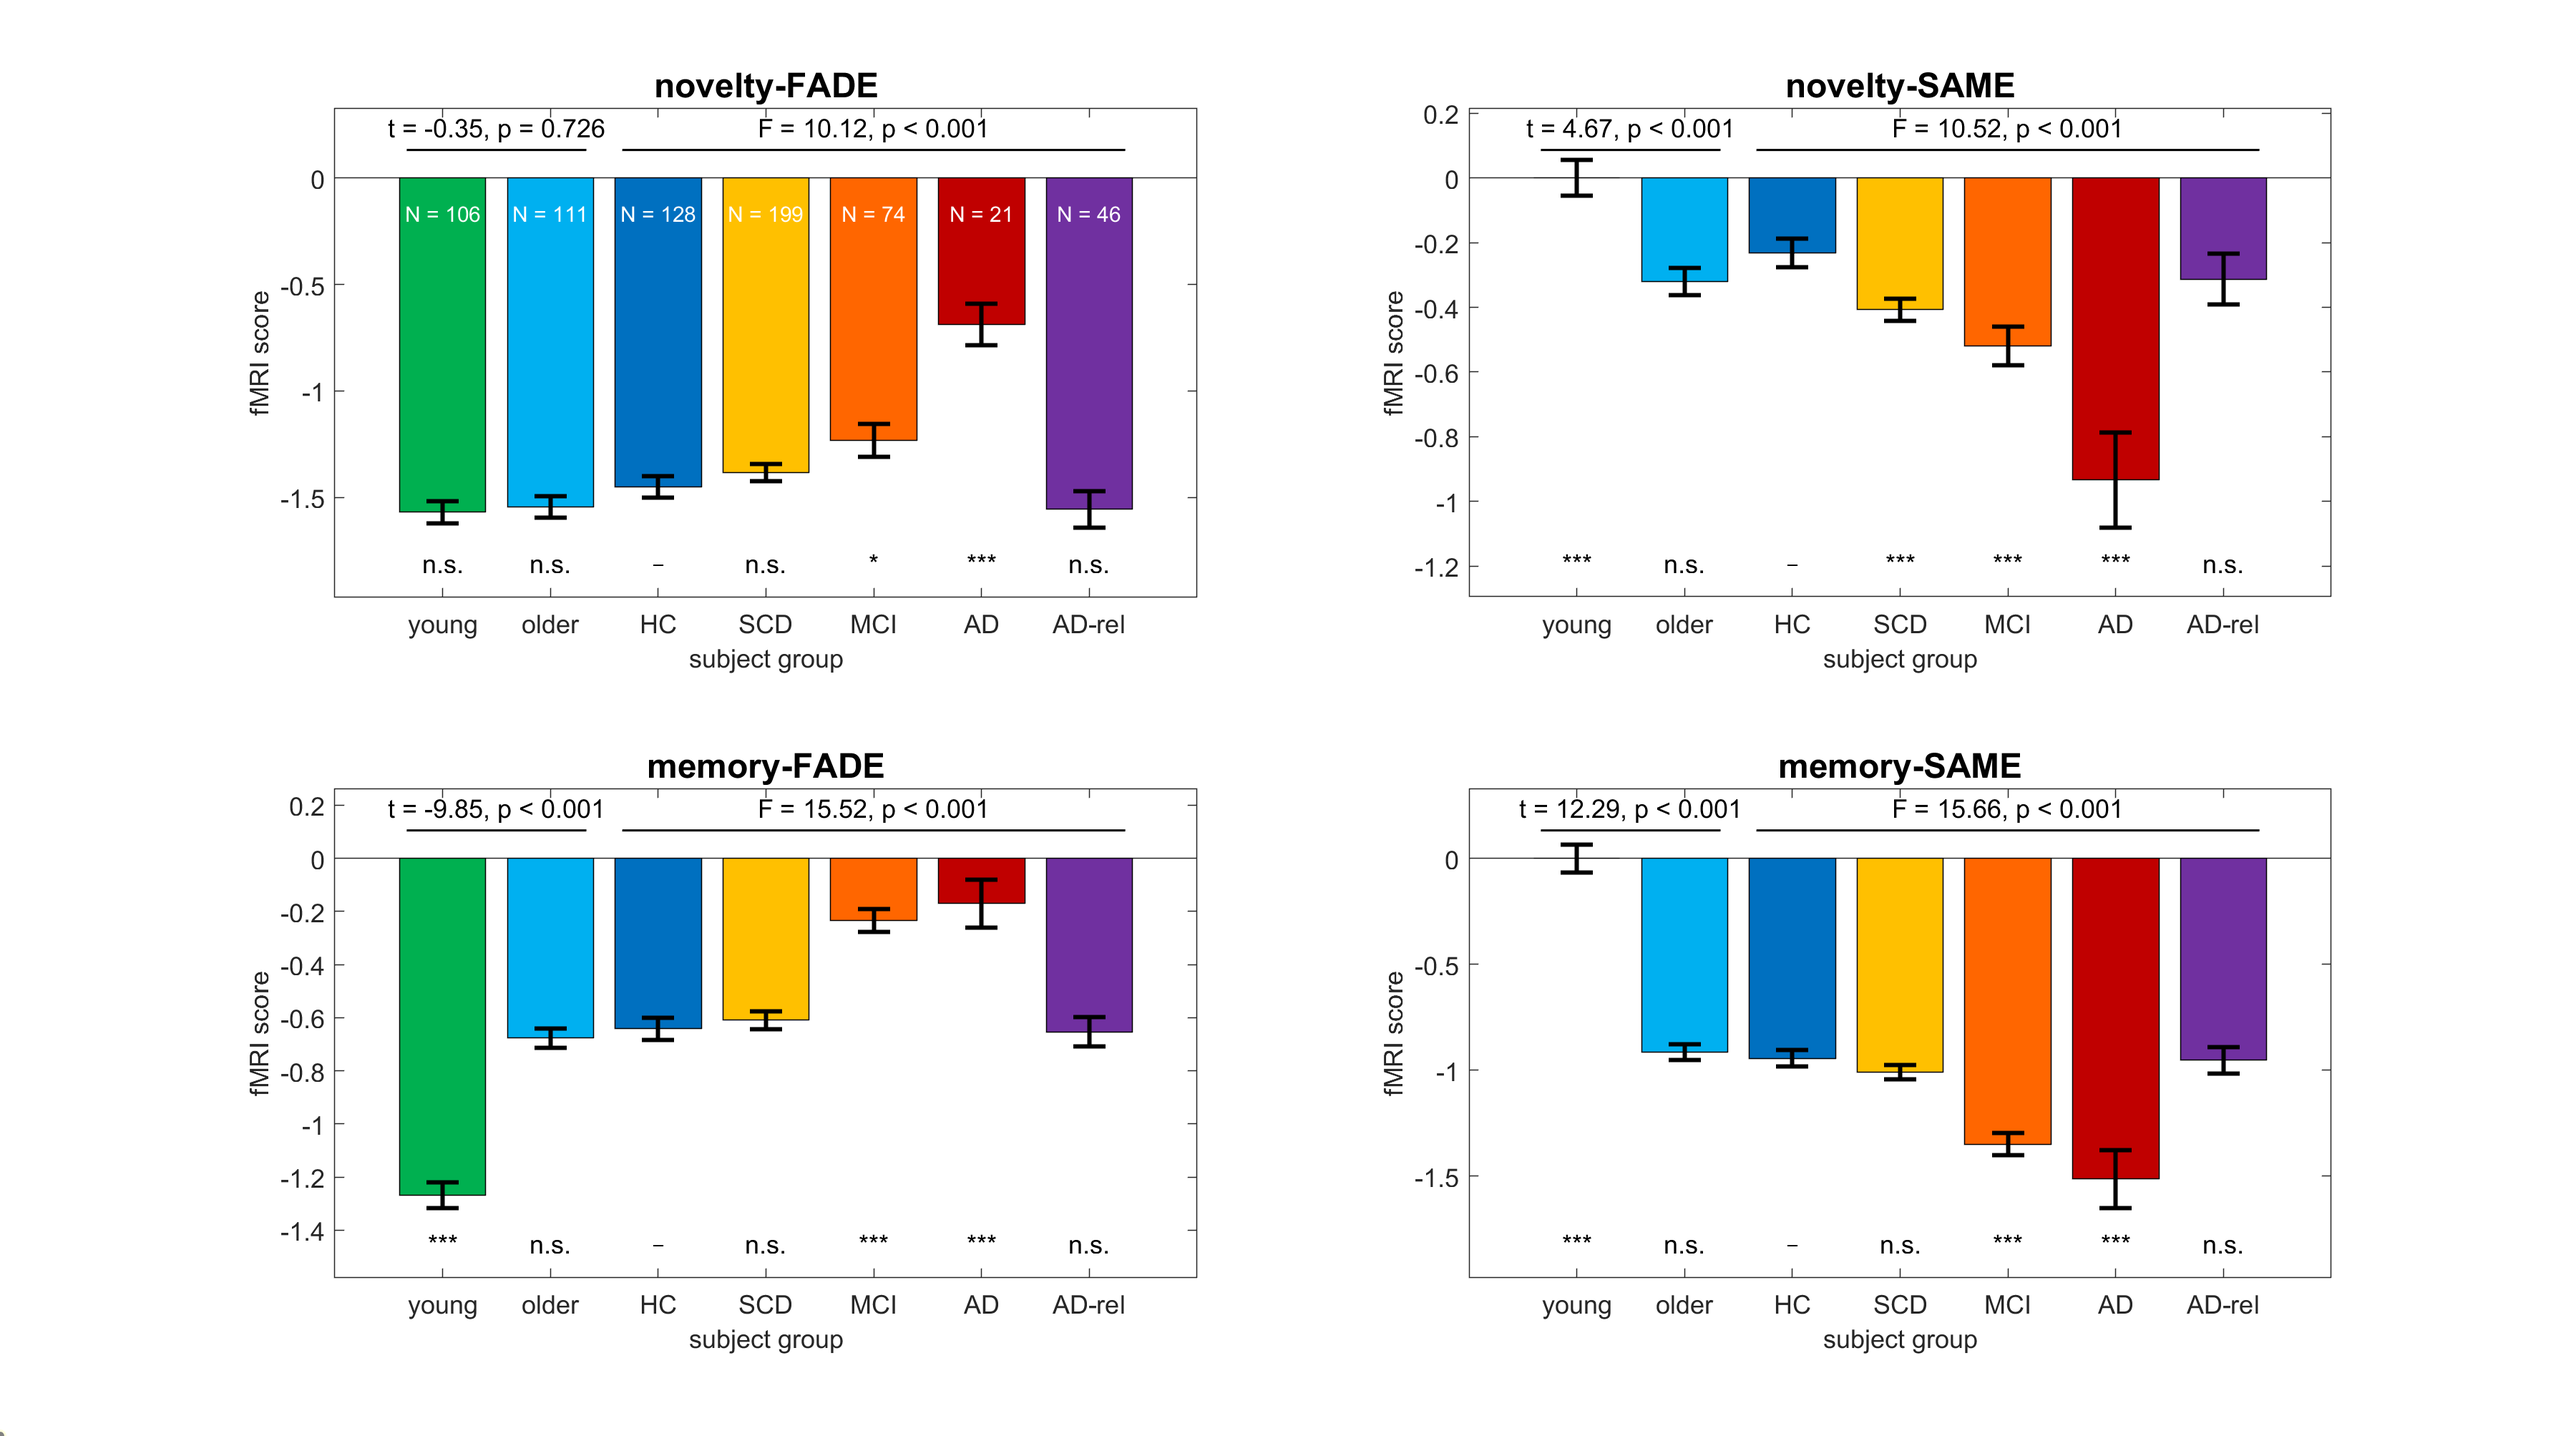
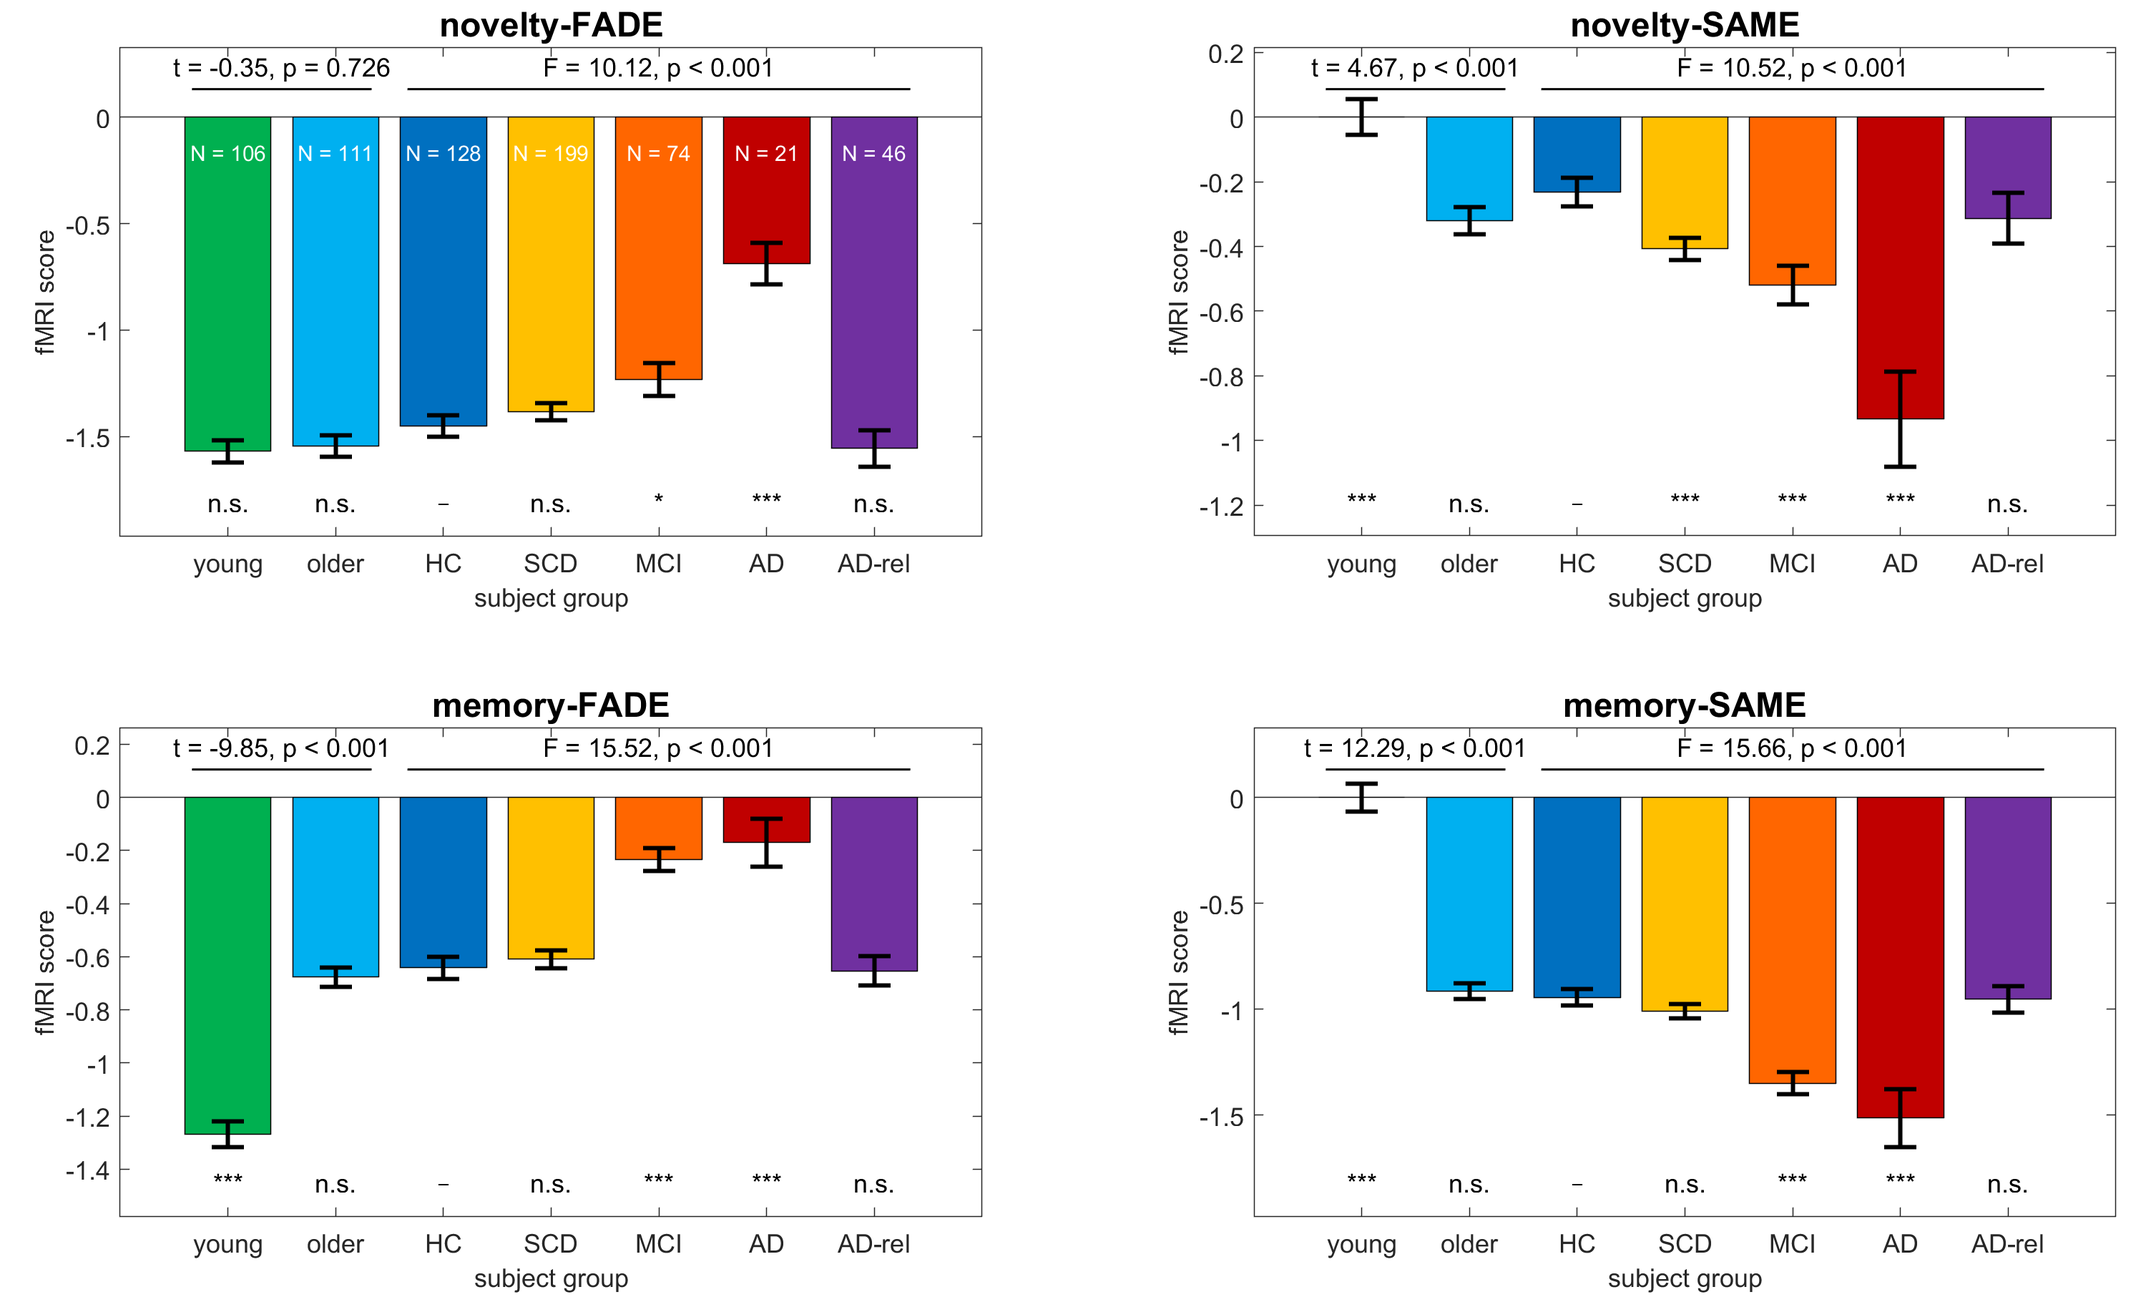
improved graphical abstract
The main figure was cropped, such that it is better visualized in the repository. Additionally, a figure caption was added.

diff --git a/README.md b/README.md
@@ -49,3 +49,5 @@ For re-running analyses reported in the paper, you need to perform the following
 ### Graphical Abstract
 
 <img src="https://raw.githubusercontent.com/JoramSoch/DELCODE_SAME/main/Figure_FADE_SAME.png" alt="Graphical Abstract" width=1000>
+
+**Figure 2.** *FADE and SAME scores as a function of fMRI contrast, score type and diagnostic group.* Participant group-wise means are shown for (A) the FADE score and (B) the SAME score computed from the novelty contrast as well as (C) the FADE score and (D) the SAME score computed from the memory contrast. Single-value fMRI scores were calculated for young (green) and older (light blue) subjects from the original study as well as HCs (dark blue), individuals with SCD (yellow), MCI patients (orange), AD patients (red) and AD relatives (violet) from the DELCODE study. Sample sizes are given in white font in the upper-left panel. Error bars correspond to standard error of the mean (SEM). For more information, see Figure caption in the Preprint.
